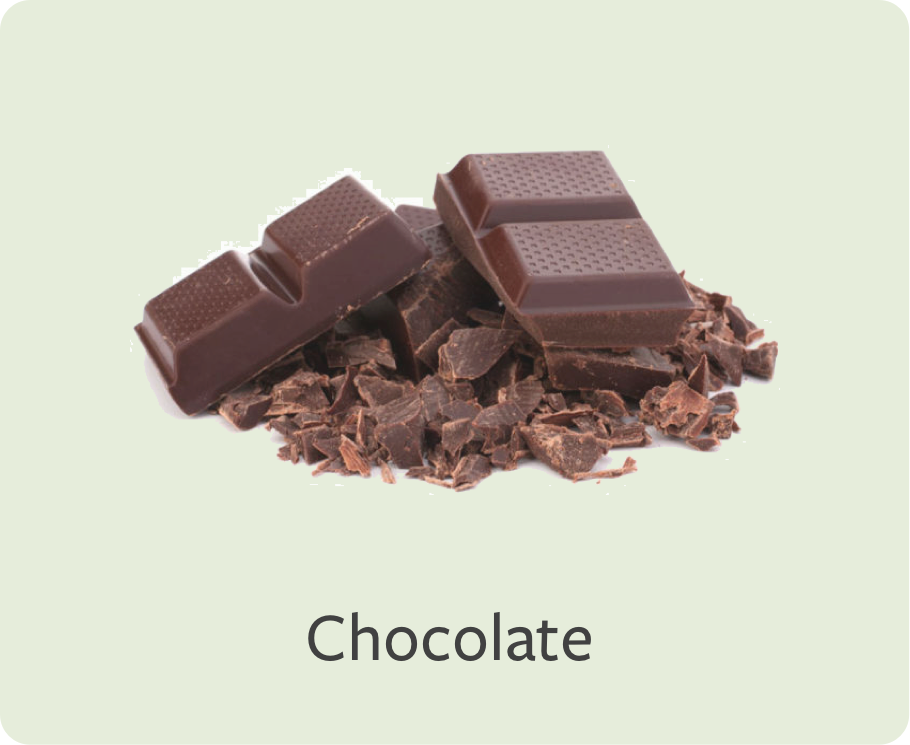
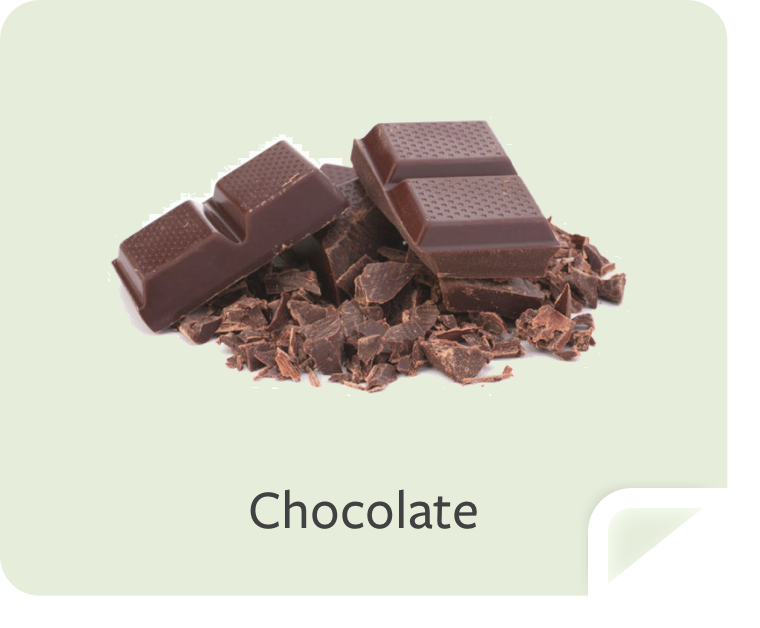
Shows indication for froyo card flip

diff --git a/Froglanders/index.html b/Froglanders/index.html
@@ -377,13 +377,11 @@
 <!--<br/>
 <br/>
 <br/>
-
 		<div class="mobile-hide">
 		<div class="cream animate-box">
 			<img height="150" src="images/cream.png"/>
 		</div>
 		</div>
-
 <br/>
 <br/>-->
 
@@ -473,19 +471,16 @@
 			margin: 0 auto;
 			max-width: 940px;
 		}
-
 		.slide_viewer {
 			height: 550px;
 			overflow: hidden;
 			position: relative;
 		}
-
 		.slide_group {
 			height: 100%;
 			position: relative;
 			width: 100%;
 		}
-
 		.slide {
 			display: none;
 			height: 100%;
@@ -496,32 +491,25 @@
 	.slide:first-child {
 		display: block;
 	}
-
 	.slide:nth-of-type(1) {
 		background: #D7A151;
 	}
-
 	.slide:nth-of-type(2) {
 		background: #F4E4CD;
 	}
-
 	.slide:nth-of-type(3) {
 		background: #C75534;
 	}
-
 	.slide:nth-of-type(4) {
 		background: #D1D1D4;
 	}
-
 	*/
-
 		.slide_buttons {
 			left: 0;
 			position: absolute;
 			right: 0;
 			text-align: center;
 		}
-
 		a.slide_btn {
 			color: #e8ddd3;
 			font-size: 42px;
@@ -532,13 +520,11 @@
 			-o-transition: all 0.4s ease-in-out;
 			transition: all 0.4s ease-in-out;
 		}
-
 		.slide_btn.active,
 		.slide_btn:hover {
 			color: #e5cbb0;
 			cursor: pointer;
 		}
-
 		.directional_nav {
 			height: 340px;
 			margin: 0 auto;
@@ -546,7 +532,6 @@
 			position: relative;
 			top: -340px;
 		}
-
 		.previous_btn {
 			bottom: 0;
 			left: 100px;
@@ -554,7 +539,6 @@
 			position: absolute;
 			top: 0;
 		}
-
 		.next_btn {
 			bottom: 0;
 			margin: auto;
@@ -562,7 +546,6 @@
 			right: 100px;
 			top: 0;
 		}
-
 		.previous_btn,
 		.next_btn {
 			cursor: pointer;
@@ -575,12 +558,10 @@
 			transition: opacity 0.4s ease-in-out;
 			width: 65px;
 		}
-
 		.previous_btn:hover,
 		.next_btn:hover {
 			opacity: 1;
 		}
-
 		@media only screen and (max-width: 767px) {
 			.previous_btn {
 				left: 50px;
@@ -599,19 +580,14 @@
 			var bulletArray = [];
 			var currentIndex = 0;
 			var timeout;
-
 			function move(newIndex) {
 				var animateLeft, slideLeft;
-
 				advance();
-
 				if ($group.is(':animated') || currentIndex === newIndex) {
 					return;
 				}
-
 				bulletArray[currentIndex].removeClass('active');
 				bulletArray[newIndex].addClass('active');
-
 				if (newIndex > currentIndex) {
 					slideLeft = '100%';
 					animateLeft = '-100%';
@@ -619,7 +595,6 @@
 					slideLeft = '-100%';
 					animateLeft = '100%';
 				}
-
 				$slides.eq(newIndex).css({
 					display: 'block',
 					left: slideLeft
@@ -639,7 +614,6 @@
 					currentIndex = newIndex;
 				});
 			}
-
 			function advance() {
 				clearTimeout(timeout);
 				timeout = setTimeout(function() {
@@ -650,7 +624,6 @@
 					}
 				}, 4000);
 			}
-
 			$('.next_btn').on('click', function() {
 				if (currentIndex < ($slides.length - 1)) {
 					move(currentIndex + 1);
@@ -658,7 +631,6 @@
 					move(0);
 				}
 			});
-
 			$('.previous_btn').on('click', function() {
 				if (currentIndex !== 0) {
 					move(currentIndex - 1);
@@ -666,10 +638,8 @@
 					move(3);
 				}
 			});
-
 			$.each($slides, function(index) {
 				var $button = $('<a class="slide_btn">&bull;</a>');
-
 				if (index === currentIndex) {
 					$button.addClass('active');
 				}
@@ -678,7 +648,6 @@
 				}).appendTo('.slide_buttons');
 				bulletArray.push($button);
 			});
-
 			advance();
 		});
 	</script>

diff --git a/Froglanders/css/style2.css b/Froglanders/css/style2.css
@@ -1826,14 +1826,14 @@ form label {
   -o-transition: 0.5s;
   transition: 0.5s;
 }
-.fh5co-card-item:hover/*, .fh5co-card-item:focus*/ {
+.fh5co-card-item:hover, .fh5co-card-item:focus {
   bottom: 0px;
   text-decoration: none;
-  -webkit-box-shadow: 0px 1px 20px 0px rgba(0, 0, 0, 0.19);
+/*  -webkit-box-shadow: 0px 1px 20px 0px rgba(0, 0, 0, 0.19);
   -moz-box-shadow: 0px 1px 20px 0px rgba(0, 0, 0, 0.19);
   -ms-box-shadow: 0px 1px 20px 0px rgba(0, 0, 0, 0.19);
   -o-box-shadow: 0px 1px 20px 0px rgba(0, 0, 0, 0.19);
-  box-shadow: 0px 1px 20px 0px rgba(0, 0, 0, 0.19);
+  box-shadow: 0px 1px 20px 0px rgba(0, 0, 0, 0.19);*/
 }
 .fh5co-card-item:hover img, .fh5co-card-item:focus img {
   -webkot-transform: scale(1.1);
@@ -1846,7 +1846,7 @@ form label {
   opacity: 1;
   visibility: visible;
   bottom: 0px;
-  border: 2px solid #fcbe61 !important;
+/*  border: 2px solid #fcbe61 !important;*/
   background: #fcbe61 !important;
 }
 .fh5co-card-item:hover figure .overlay, .fh5co-card-item:focus figure .overlay {
@@ -2506,6 +2506,7 @@ form label {
   width:100%;
 }
 
+
  @media screen and (max-width: 768px) {
  
   .flavorsRow{
@@ -2543,14 +2544,14 @@ form label {
   transform: scale(1.1);
 }
 
-.fh5co-card-item:hover/*, .fh5co-card-item:focus*/ {
+.fh5co-card-item:hover, .fh5co-card-item:focus {
   bottom: 0px;
   text-decoration: none;
-  -webkit-box-shadow: 0px 1px 20px 0px rgba(0, 0, 0, 0.19);
+/*  -webkit-box-shadow: 0px 1px 20px 0px rgba(0, 0, 0, 0.19);
   -moz-box-shadow: 0px 1px 20px 0px rgba(0, 0, 0, 0.19);
   -ms-box-shadow: 0px 1px 20px 0px rgba(0, 0, 0, 0.19);
   -o-box-shadow: 0px 1px 20px 0px rgba(0, 0, 0, 0.19);
-  box-shadow: 0px 1px 20px 0px rgba(0, 0, 0, 0.19);
+  box-shadow: 0px 1px 20px 0px rgba(0, 0, 0, 0.19);*/
 }
 
 

diff --git a/Froglanders/css/style.css b/Froglanders/css/style.css
@@ -1861,11 +1861,11 @@ form label {
 .fh5co-card-item:hover, .fh5co-card-item:focus {
   bottom: 7px;
   text-decoration: none;
-  -webkit-box-shadow: 0px 1px 20px 0px rgba(0, 0, 0, 0.19);
+/*  -webkit-box-shadow: 0px 1px 20px 0px rgba(0, 0, 0, 0.19);
   -moz-box-shadow: 0px 1px 20px 0px rgba(0, 0, 0, 0.19);
   -ms-box-shadow: 0px 1px 20px 0px rgba(0, 0, 0, 0.19);
   -o-box-shadow: 0px 1px 20px 0px rgba(0, 0, 0, 0.19);
-  box-shadow: 0px 1px 20px 0px rgba(0, 0, 0, 0.19);
+  box-shadow: 0px 1px 20px 0px rgba(0, 0, 0, 0.19);*/
 }
 .fh5co-card-item:hover img, .fh5co-card-item:focus img {
   -webkot-transform: scale(1.2);
@@ -1878,7 +1878,7 @@ form label {
   opacity: 1;
   visibility: visible;
   bottom: 0px;
-  border: 2px solid #fcbe61 !important;
+/*  border: 2px solid #fcbe61 !important;*/
   background: #fcbe61 !important;
 }
 .fh5co-card-item:hover figure .overlay, .fh5co-card-item:focus figure .overlay {
@@ -2587,5 +2587,7 @@ form label {
 text-align: center;
     }
   }
+
+
 
 /*# sourceMappingURL=style.css.map */
